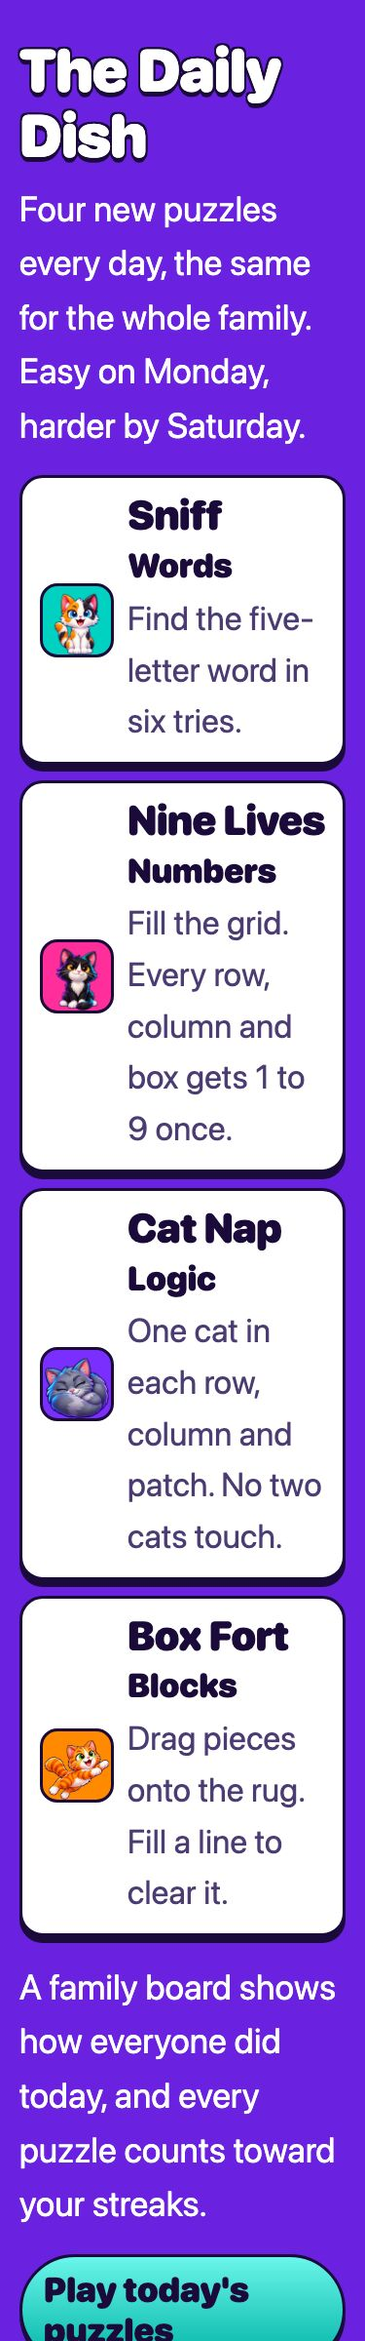
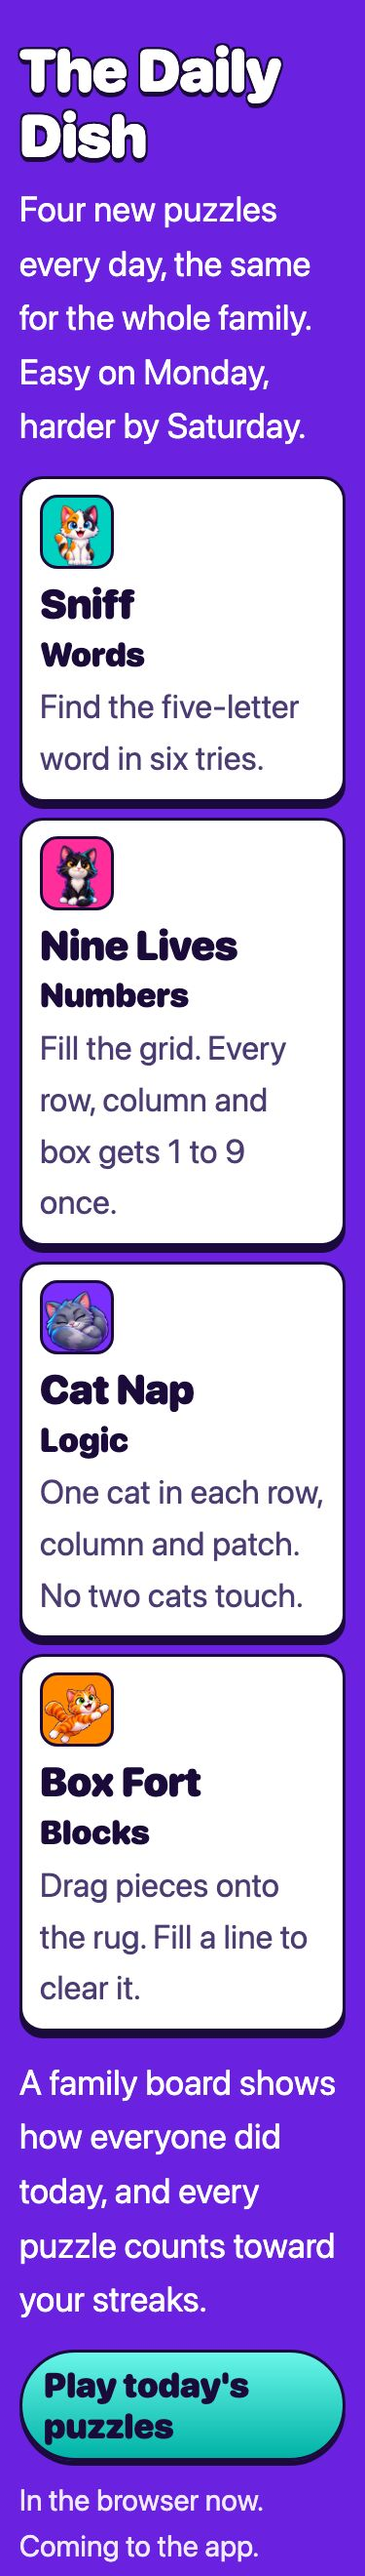
The Daily Dish's puzzle cards fit at the largest text on the smallest phone
At 200% text on a 320-wide screen, a puzzle's cat and the longest word
beside it were wider than the card (325 against 320 in CI's fonts), so
the home page scrolled sideways. The words now go under the cat when they
don't fit beside it, at the same size. The landing page shots are retaken,
with 320 at 200% added.

diff --git a/apps/play-api/src/http/home.ts b/apps/play-api/src/http/home.ts
@@ -162,7 +162,8 @@ h1 span{display:block;color:var(--sun);text-wrap:balance}
 .game .txt{padding:18px 20px 24px}
 .game .txt p+p{margin-top:8px}
 .puzzles{display:grid;gap:16px;margin:0 0 24px;padding:0;list-style:none}
-.puzzle{display:flex;gap:14px;align-items:center;padding:16px 18px}
+.puzzle{display:flex;flex-wrap:wrap;gap:14px;align-items:center;padding:16px 18px}
+.puzzle>div:last-child{flex:1 1 9rem;min-width:0;overflow-wrap:break-word}
 .puzzle .art{flex:none;display:flex;justify-content:center;align-items:flex-end;width:76px;height:76px;border:3px solid var(--ink);border-radius:18px;overflow:hidden}
 .puzzle .art img{display:block;width:auto;height:68px}
 .puzzle h3{margin:0 0 2px}
